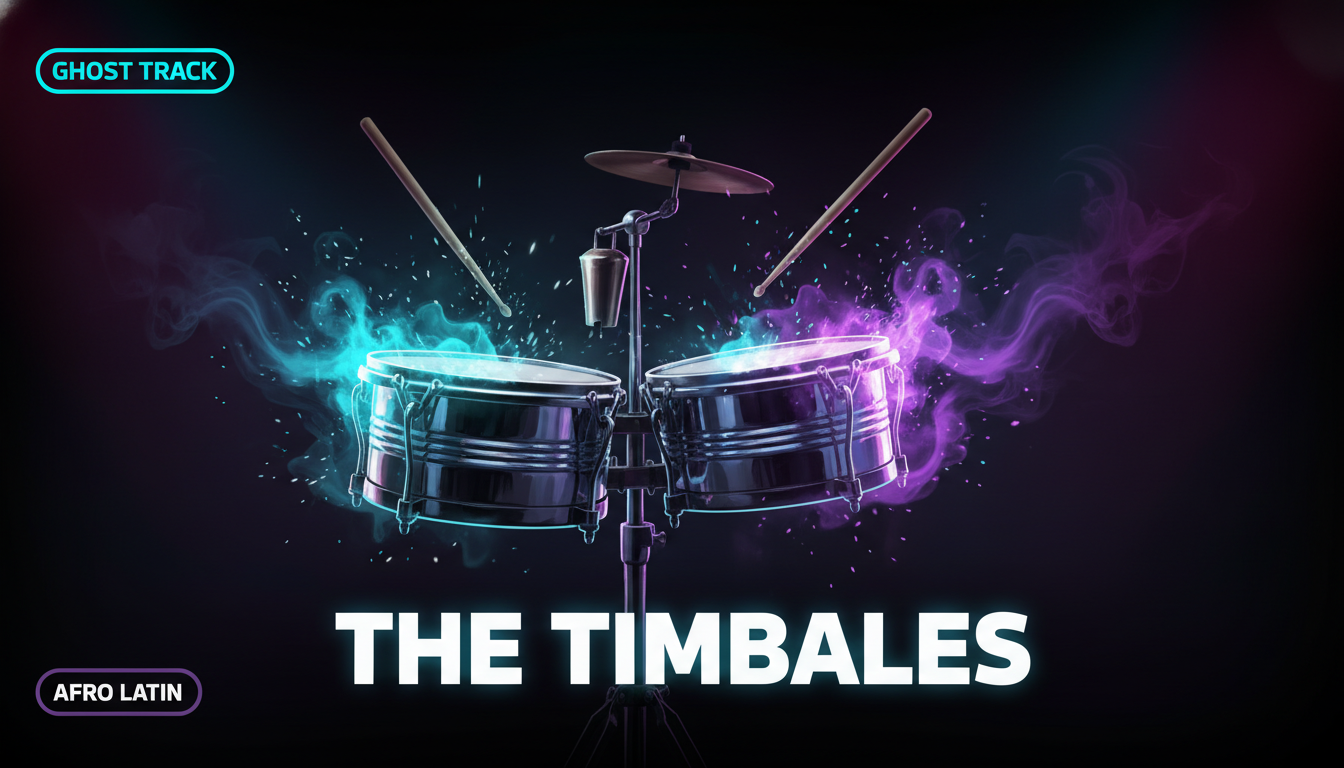
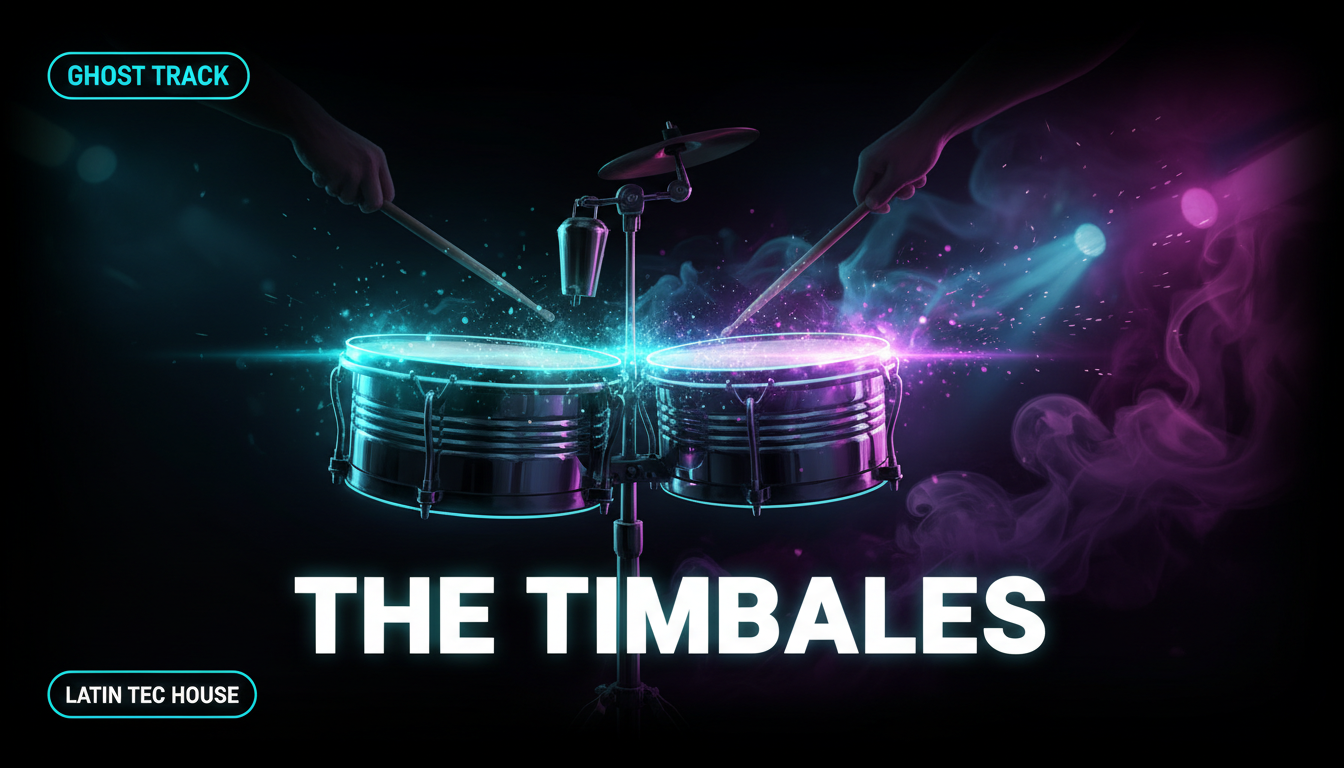
feat(ghost-catalog): respect filter_tags + regen Timbales cover (Latin Tec House)
GhostCatalog filter now checks both t.genre and t.filter_tags
(comma-separated). A track with genre="Latin Tec House" and
filter_tags="Tech House,Afro Latin" shows under all three filter
contexts.

Cover regenerated so the genre pill at bottom-left reads
"LATIN TEC HOUSE" (was "AFRO LATIN" in first pass).

Pairs with backend commit setting these fields on the-timbales row.

diff --git a/src/shop/ghost/GhostCatalog.jsx b/src/shop/ghost/GhostCatalog.jsx
@@ -59,9 +59,18 @@ export default function GhostCatalog({ isMobile }) {
     };
   }, []);
 
+  // A track shows under a genre filter when either:
+  //   1. its primary `genre` matches exactly, OR
+  //   2. the genre is listed in its `filter_tags` (comma-separated, optional).
+  // Lets a track display e.g. "Latin Tec House" as its badge but still appear
+  // under the "Tech House" + "Afro Latin" filter buttons.
   const filtered = activeGenre === "All"
     ? tracks
-    : tracks.filter((t) => t.genre === activeGenre);
+    : tracks.filter((t) => {
+        if (t.genre === activeGenre) return true;
+        const tags = (t.filter_tags || "").split(",").map((s) => s.trim()).filter(Boolean);
+        return tags.includes(activeGenre);
+      });
 
   const available = tracks.filter((t) => !t.sold).length;
   const total = tracks.length;
